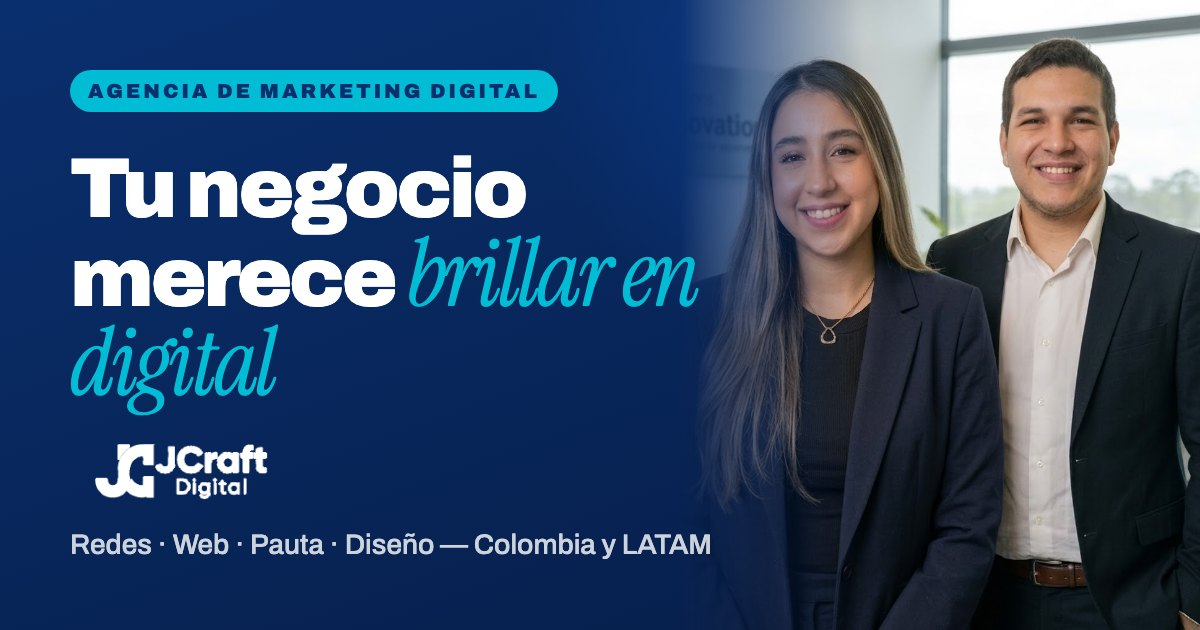
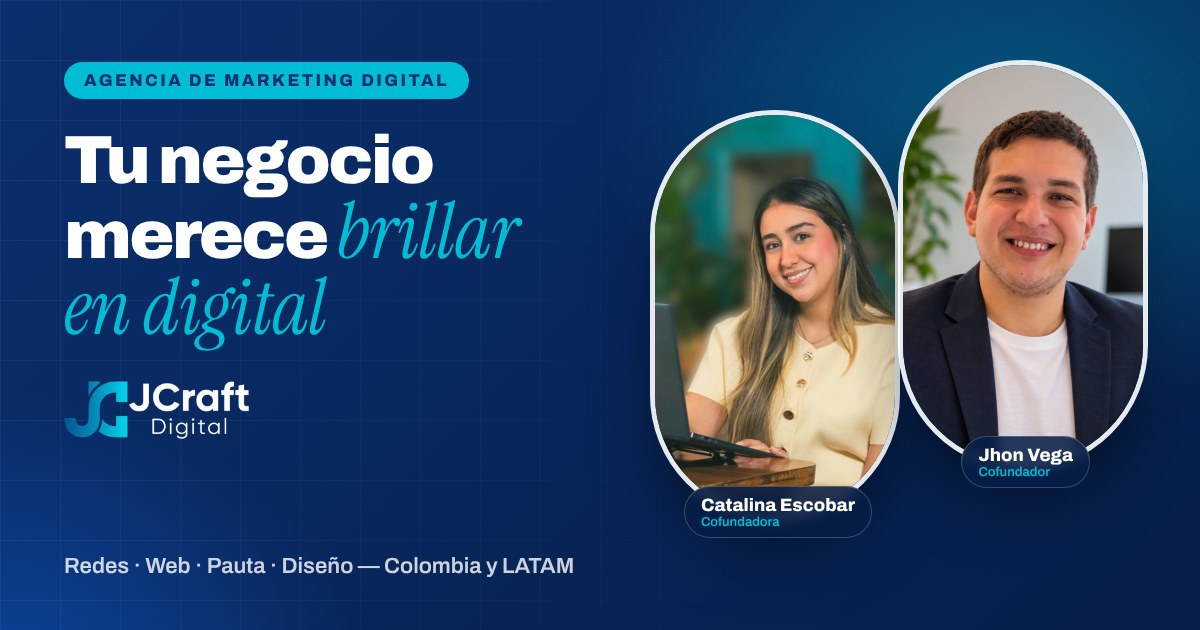
Web: URLs sin .html (cleanUrls en Vercel; las antiguas redirigen) e imagen para compartir con fotos reales de Catalina y Jhon
Claude-Session: https://claude.ai/code/session_019dCuL22R5eqHQp8dU12ujq

diff --git a/src/lib/url.ts b/src/lib/url.ts
@@ -1,6 +1,6 @@
 /** Ruta interna respetando el `base` (raíz en Vercel, /jcraft-digital en GitHub Pages). */
-// La portada siempre es «/» (nunca «/index.html»).
-export const u = (path = '') => `${import.meta.env.BASE_URL.replace(/\/$/, '')}/${path.replace(/^\//, '').replace(/(^|\/)index\.html$/, '$1')}`;
+// La portada siempre es «/» (nunca «/index.html») y las páginas van sin «.html» (Vercel sirve /portafolio desde portafolio.html).
+export const u = (path = '') => `${import.meta.env.BASE_URL.replace(/\/$/, '')}/${path.replace(/^\//, '').replace(/(^|\/)index\.html$/, '$1').replace(/\.html(?=$|[?#])/, '')}`;
 
 export const WA_NUMBER = '573008113078';
 export const wa = (text: string) => `https://wa.me/${WA_NUMBER}?text=${encodeURIComponent(text)}`;

diff --git a/src/scripts/portal/lib.ts b/src/scripts/portal/lib.ts
@@ -10,7 +10,7 @@ export const configured = Boolean(URL_ && KEY);
 export const sb = createClient(URL_ || 'https://sin-configurar.supabase.co', KEY || 'sin-configurar');
 
 const base = import.meta.env.BASE_URL.replace(/\/$/, '');
-export const portalUrl = (page: string) => `${base}/portal/${page}`;
+export const portalUrl = (page: string) => `${base}/portal/${page.replace(/\.html(?=$|[?#])/, '')}`;
 export const go = (page: string) => location.assign(portalUrl(page));
 
 export type Post = {

diff --git a/src/scripts/portfolio.ts b/src/scripts/portfolio.ts
@@ -72,7 +72,7 @@ export function initPortfolio(gsap: typeof gsapType, reduce: boolean) {
     });
   });
 
-  // Enlace directo a un caso: /portafolio.html#caso-slug
+  // Enlace directo a un caso: /portafolio#caso-slug
   const fromHash = location.hash.match(/^#caso-([\w-]+)$/);
   if (fromHash) setTimeout(() => open(fromHash[1], null, false), 400);
 }

diff --git a/src/pages/robots.txt.ts b/src/pages/robots.txt.ts
@@ -7,7 +7,7 @@ export const GET: APIRoute = ({ site }) => {
   const body = [
     'User-agent: *',
     'Allow: /',
-    'Disallow: /404.html',
+    'Disallow: /404',
     '',
     ...bots.flatMap((b) => [`User-agent: ${b}`, 'Allow: /', '']),
     `Sitemap: ${new URL('sitemap-index.xml', site).href}`,
